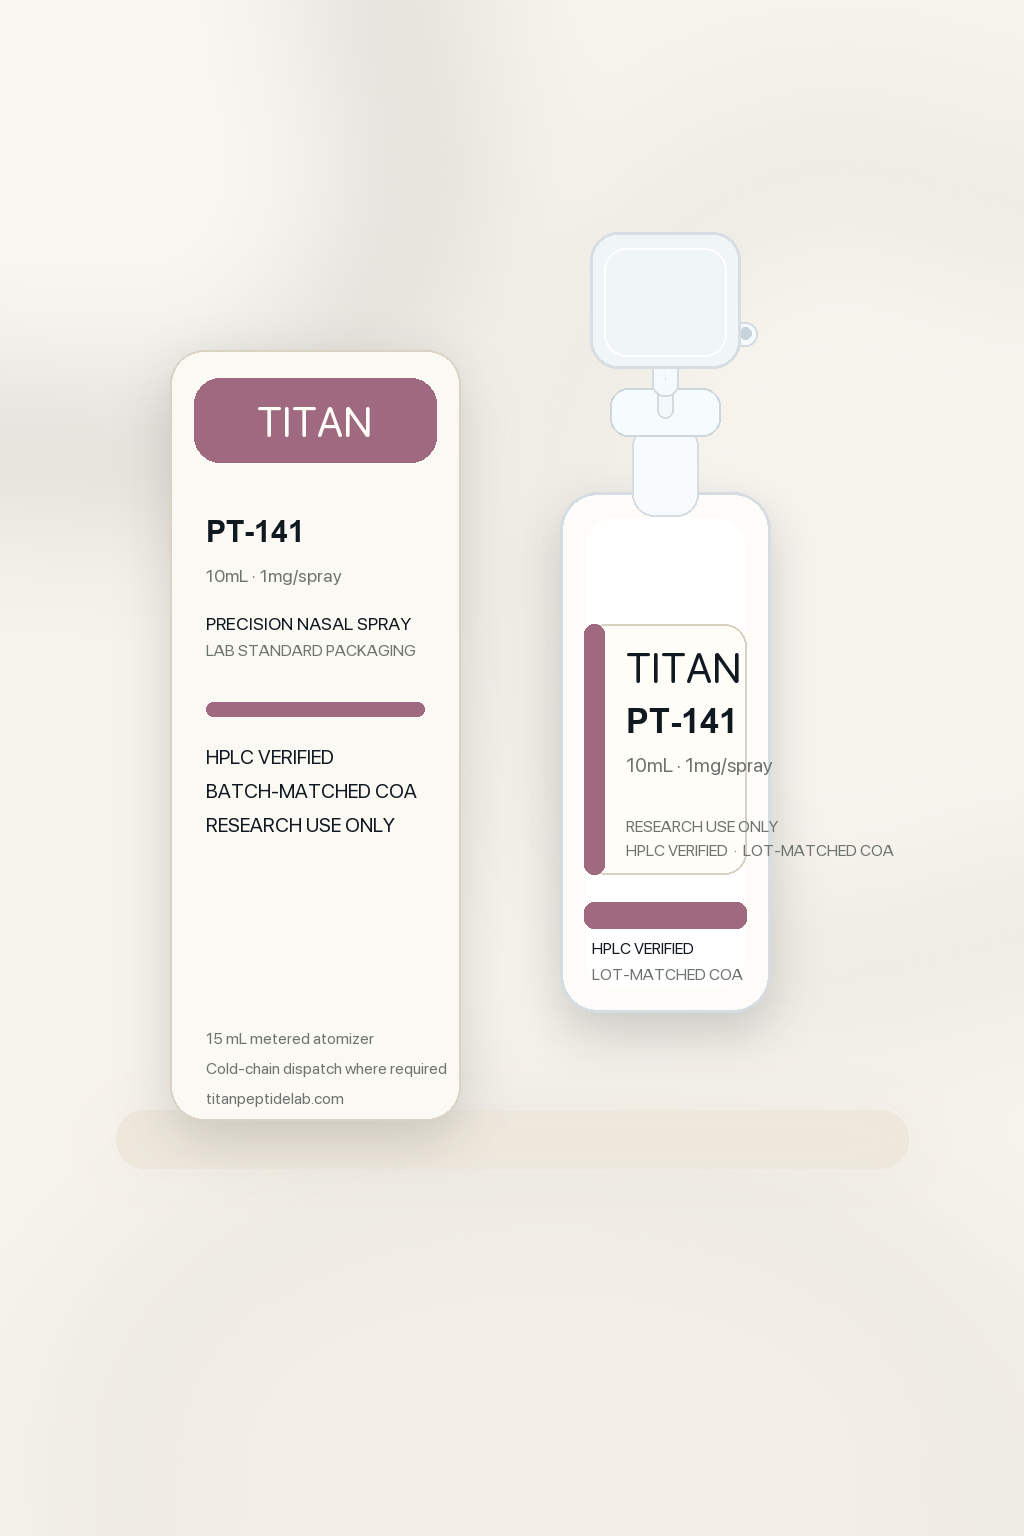
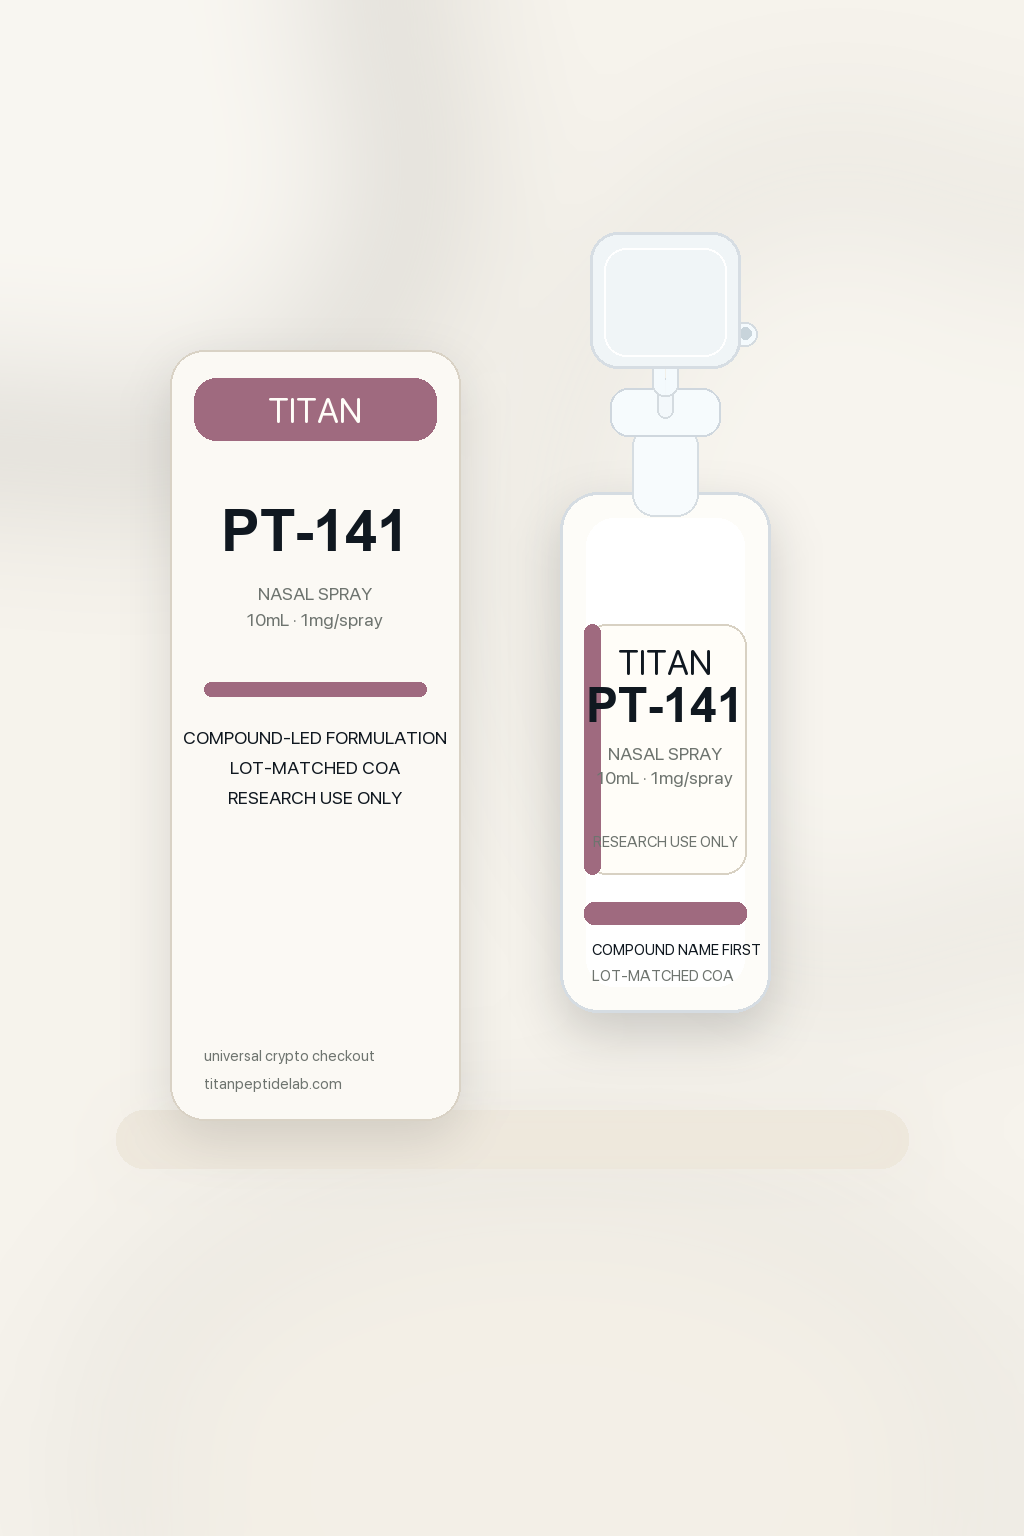
Preserve updated spray asset generator and outputs

diff --git a/scripts/render_brand_spray_images.py b/scripts/render_brand_spray_images.py
@@ -52,11 +52,11 @@ def font(path: str, size: int) -> ImageFont.FreeTypeFont:
     return ImageFont.truetype(path, size)
 
 
-FONT_TITAN = font(FONT_ROUNDED, 42)
-FONT_PRODUCT = font(FONT_BOLD, 34)
-FONT_META = font(FONT_REG, 20)
-FONT_MICRO = font(FONT_REG, 16)
-FONT_BOX_PRODUCT = font(FONT_BOLD, 30)
+FONT_TITAN = font(FONT_ROUNDED, 34)
+FONT_PRODUCT = font(FONT_BOLD, 48)
+FONT_META = font(FONT_REG, 18)
+FONT_MICRO = font(FONT_REG, 15)
+FONT_BOX_PRODUCT = font(FONT_BOLD, 58)
 FONT_BOX_META = font(FONT_REG, 18)
 
 
@@ -107,38 +107,37 @@ def vignette(img: Image.Image):
 
 def label_block(draw: ImageDraw.ImageDraw, x: int, y: int, w: int, h: int, accent: str, title: str, meta: str, align: str = "left"):
     draw.rounded_rectangle((x, y, x + w, y + h), radius=22, fill=PAPER, outline=BORDER, width=2)
-    draw.rounded_rectangle((x, y, x + 20, y + h), radius=22, fill=accent)
-    tx = x + 42
+    draw.rounded_rectangle((x, y, x + 16, y + h), radius=22, fill=accent)
+    tx = x + 34
     if align == "center":
         draw_centered_text(draw, (x + w // 2, y + 18), "TITAN", FONT_TITAN, INK)
-        draw_centered_text(draw, (x + w // 2, y + 76), title, FONT_PRODUCT, INK)
-        draw_centered_text(draw, (x + w // 2, y + 124), meta, FONT_META, MUTED)
-        draw_centered_text(draw, (x + w // 2, y + h - 52), "RESEARCH USE ONLY", FONT_MICRO, MUTED)
+        draw_centered_text(draw, (x + w // 2, y + 54), title, FONT_PRODUCT, INK)
+        draw_centered_text(draw, (x + w // 2, y + 118), "NASAL SPRAY", FONT_META, MUTED)
+        draw_centered_text(draw, (x + w // 2, y + 142), meta, FONT_META, MUTED)
+        draw_centered_text(draw, (x + w // 2, y + h - 42), "RESEARCH USE ONLY", FONT_MICRO, MUTED)
         return
-    draw.text((tx, y + 18), "TITAN", font=FONT_TITAN, fill=INK)
-    draw.text((tx, y + 78), title, font=FONT_PRODUCT, fill=INK)
-    draw.text((tx, y + 128), meta, font=FONT_META, fill=MUTED)
-    draw.text((tx, y + h - 58), "RESEARCH USE ONLY", font=FONT_MICRO, fill=MUTED)
-    draw.text((tx, y + h - 34), "HPLC VERIFIED  ·  LOT-MATCHED COA", font=FONT_MICRO, fill=MUTED)
+    draw.text((tx, y + 16), "TITAN", font=FONT_TITAN, fill=INK)
+    draw.text((tx, y + 62), title, font=FONT_PRODUCT, fill=INK)
+    draw.text((tx, y + 116), "NASAL SPRAY", font=FONT_META, fill=MUTED)
+    draw.text((tx, y + 142), meta, font=FONT_META, fill=MUTED)
+    draw.text((tx, y + h - 44), "RESEARCH USE ONLY", font=FONT_MICRO, fill=MUTED)
 
 
 def draw_carton(base: Image.Image, accent: str, product: dict, x: int, y: int, w: int = 290, h: int = 770):
-    add_shadow(base, (x, y, x + w, y + h), radius=26, dy=18, alpha=40)
+    add_shadow(base, (x, y, x + w, y + h), radius=24, dy=18, alpha=32)
     d = ImageDraw.Draw(base)
     d.rounded_rectangle((x, y, x + w, y + h), radius=34, fill="#FBF9F4", outline="#D9D2C5", width=2)
-    d.rounded_rectangle((x + 24, y + 28, x + w - 24, y + 112), radius=26, fill=accent)
-    draw_centered_text(d, (x + w // 2, y + 46), "TITAN", FONT_TITAN, PAPER)
-    d.text((x + 36, y + 164), short_name(product['name']), font=FONT_BOX_PRODUCT, fill=INK)
-    d.text((x + 36, y + 214), product['size'], font=FONT_BOX_META, fill=MUTED)
-    d.text((x + 36, y + 262), "PRECISION NASAL SPRAY", font=FONT_BOX_META, fill=INK)
-    d.text((x + 36, y + 290), "LAB STANDARD PACKAGING", font=FONT_MICRO, fill=MUTED)
-    d.rounded_rectangle((x + 36, y + 352, x + w - 36, y + 366), radius=7, fill=accent)
-    d.text((x + 36, y + 394), "HPLC VERIFIED", font=FONT_META, fill=INK)
-    d.text((x + 36, y + 428), "BATCH-MATCHED COA", font=FONT_META, fill=INK)
-    d.text((x + 36, y + 462), "RESEARCH USE ONLY", font=FONT_META, fill=INK)
-    d.text((x + 36, y + h - 92), "15 mL metered atomizer", font=FONT_MICRO, fill=MUTED)
-    d.text((x + 36, y + h - 62), "Cold-chain dispatch where required", font=FONT_MICRO, fill=MUTED)
-    d.text((x + 36, y + h - 32), "titanpeptidelab.com", font=FONT_MICRO, fill=MUTED)
+    d.rounded_rectangle((x + 24, y + 28, x + w - 24, y + 90), radius=22, fill=accent)
+    draw_centered_text(d, (x + w // 2, y + 40), "TITAN", FONT_TITAN, PAPER)
+    draw_centered_text(d, (x + w // 2, y + 148), short_name(product['name']), FONT_BOX_PRODUCT, INK)
+    draw_centered_text(d, (x + w // 2, y + 232), "NASAL SPRAY", FONT_BOX_META, MUTED)
+    draw_centered_text(d, (x + w // 2, y + 258), product['size'], FONT_BOX_META, MUTED)
+    d.rounded_rectangle((x + 34, y + 332, x + w - 34, y + 346), radius=7, fill=accent)
+    draw_centered_text(d, (x + w // 2, y + 376), "COMPOUND-LED FORMULATION", FONT_META, INK)
+    draw_centered_text(d, (x + w // 2, y + 406), "LOT-MATCHED COA", FONT_META, INK)
+    draw_centered_text(d, (x + w // 2, y + 436), "RESEARCH USE ONLY", FONT_META, INK)
+    d.text((x + 34, y + h - 74), "universal crypto checkout", font=FONT_MICRO, fill=MUTED)
+    d.text((x + 34, y + h - 46), "titanpeptidelab.com", font=FONT_MICRO, fill=MUTED)
 
 
 def draw_bottle(base: Image.Image, accent: str, product: dict, x: int, y: int, scale: float = 1.0):
@@ -181,11 +180,11 @@ def draw_bottle(base: Image.Image, accent: str, product: dict, x: int, y: int, s
     label_y = y + 132
     label_w = body_w - 48
     label_h = int(250 * scale)
-    label_block(d, label_x, label_y, label_w, label_h, accent, short_name(product['name']), product['size'])
+    label_block(d, label_x, label_y, label_w, label_h, accent, short_name(product['name']), product['size'], align="center")
 
-    d.rounded_rectangle((x + 24, y + body_h - 110, x + body_w - 24, y + body_h - 84), radius=10, fill=accent)
-    d.text((x + 32, y + body_h - 74), "HPLC VERIFIED", font=FONT_MICRO, fill=INK)
-    d.text((x + 32, y + body_h - 48), "LOT-MATCHED COA", font=FONT_MICRO, fill=MUTED)
+    d.rounded_rectangle((x + 24, y + body_h - 110, x + body_w - 24, y + body_h - 88), radius=10, fill=accent)
+    d.text((x + 32, y + body_h - 72), "COMPOUND NAME FIRST", font=FONT_MICRO, fill=INK)
+    d.text((x + 32, y + body_h - 46), "LOT-MATCHED COA", font=FONT_MICRO, fill=MUTED)
 
 
 def make_background() -> Image.Image:
